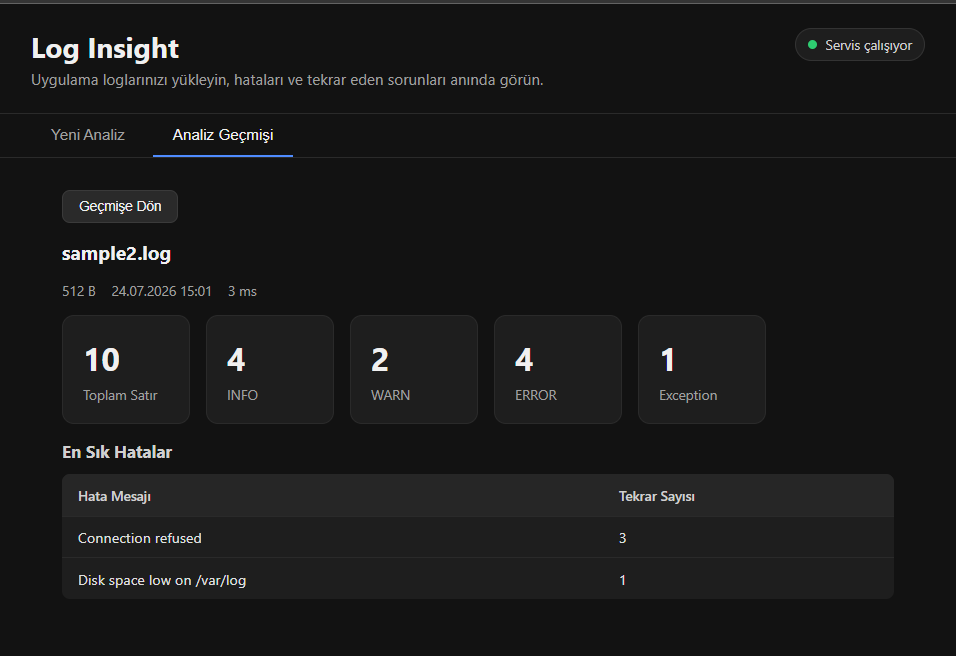
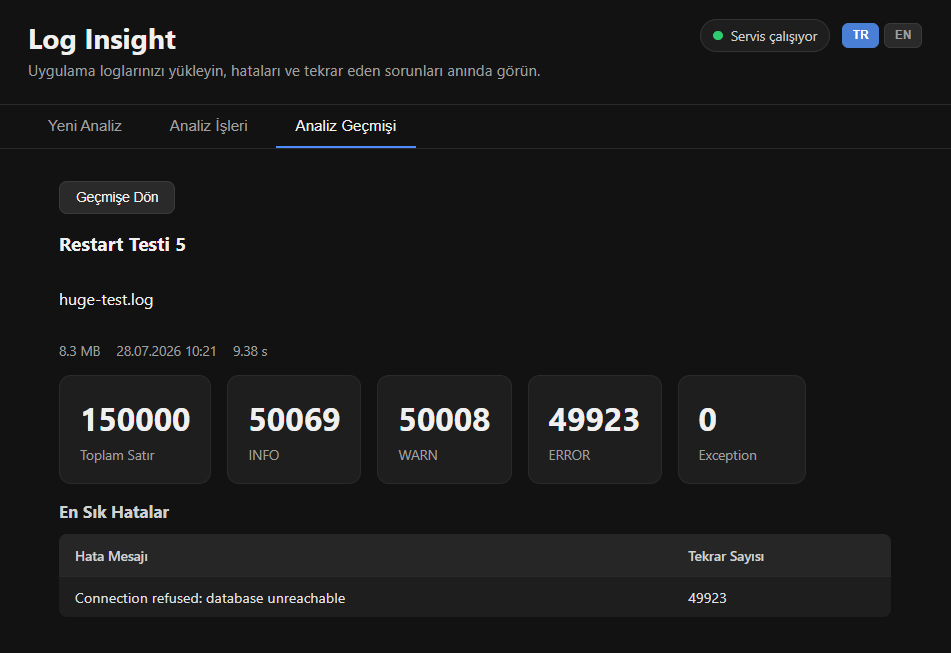
Update README to reflect analysis name search and expanded test coverage

diff --git a/README.md b/README.md
@@ -346,10 +346,11 @@ curl -X POST -F "file=@backend/sample.log" http://localhost:8080/api/v1/logs/ana
 | `size` | hayır (varsayılan `20`) | sayfa başına kayıt |
 | `sort` | hayır (varsayılan `analyzedAt,desc`) | `alan,yön` formatında sıralama |
 | `fileName` | hayır | dosya adına göre (büyük/küçük harf duyarsız, kısmi eşleşme) arama |
+| `analysisName` | hayır | analiz adına göre (büyük/küçük harf duyarsız, kısmi eşleşme) arama |
 | `minErrorCount` | hayır | bu sayı ve üzerinde hata içeren kayıtları filtreleme |
 
 ```bash
-curl "http://localhost:8080/api/v1/analyses?page=0&size=20&sort=analyzedAt,desc&fileName=app&minErrorCount=5"
+curl "http://localhost:8080/api/v1/analyses?page=0&size=20&sort=analyzedAt,desc&fileName=app&analysisName=odeme&minErrorCount=5"
 ```
 
 Cevap `content`, `page`, `size`, `totalElements`, `totalPages`, `first`, `last` alanlarını içerir.
@@ -386,7 +387,7 @@ curl -X POST -F "file=@backend/sample.log" -F "analysisName=Test Analizi" http:/
 
 ## Frontend Geçmiş ve Detay Ekranları
 
-- **Analiz Geçmişi** — kayıtlı tüm analizlerin listesi. Her satırda dosya adı, analiz tarihi, dosya boyutu, toplam satır, ERROR sayısı, exception sayısı, işlem süresi ile birlikte bir **Detay** ve bir **Sil** butonu bulunur. Sayfa altında önceki/sonraki sayfa butonları ve mevcut/toplam sayfa bilgisi gösterilir. Üstteki arama çubuğuyla dosya adına göre arama ve minimum ERROR sayısına göre filtreleme yapılabilir.
+- **Analiz Geçmişi** — kayıtlı tüm analizlerin listesi. Her satırda analiz adı (V4), dosya adı, analiz tarihi, dosya boyutu, toplam satır, ERROR sayısı, exception sayısı, işlem süresi ile birlikte bir **Detay** ve bir **Sil** butonu bulunur. Sayfa altında önceki/sonraki sayfa butonları ve mevcut/toplam sayfa bilgisi gösterilir. Üstteki arama çubuğuyla analiz adına göre (V4) ve dosya adına göre arama, minimum ERROR sayısına göre filtreleme yapılabilir.
 - **Detay butonuna** basıldığında, o analizin tüm bilgileri (dosya metadata'sı, tüm sayaçlar, en sık hata mesajları tablosu) ayrı bir ekranda gösterilir.
 - **Sil butonuna** basıldığında önce bir onay penceresi açılır; onaylanırsa kayıt silinir, başarı mesajı gösterilir ve liste otomatik olarak yenilenir.
 - Liste; yükleniyor (loading), boş (empty state), hata (backend erişilemiyor veya beklenmeyen sunucu hatası) durumlarını ayrı ayrı, kullanıcı dostu şekilde ele alır.
@@ -398,7 +399,7 @@ Uygulama artık üç ana görünüme sahip: **Yeni Analiz**, **Analiz İşleri**
 - **Yeni Analiz** artık senkron değil — kullanıcı bir analiz adı girip dosya seçtiğinde, bir job oluşturulur ve kullanıcı otomatik olarak **Analiz İşleri** sekmesindeki job takip ekranına yönlendirilir.
 - **Analiz İşleri listesi** — analiz adı, dosya adı, durum, progress, oluşturulma/başlama/tamamlanma zamanı, retry sayısı ve **Detay/İptal/Retry/Sonuç** butonlarını gösterir; butonlar job durumuna göre aktif/pasif olur (örn. yalnızca `FAILED` job'da Retry aktif, "Sonuç" yalnızca `SUCCEEDED` **ve** bağlı analiz sonucu hâlâ mevcutsa aktif). Analiz adına, dosya adına ve duruma göre filtrelenebilir.
 - **Job Detay ekranı** — tüm job bilgileri, `PENDING`/`RUNNING` durumunda bir progress bar, geçen süre, hata bilgisi (varsa, kullanıcı dostu çevrilmiş biçimde) ve `SUCCEEDED` job için "Sonucu Görüntüle" butonu (Analiz Geçmişi'ndeki detay ekranına yönlendirir; analiz sonucu ayrıca silinmişse bu buton görünmez).
-- **Polling** — job takip ekranı, job'ın durumunu her **2 saniyede bir** sorgular; job terminal bir duruma (`SUCCEEDED`/`FAILED`/`CANCELLED`) ulaşınca polling otomatik durur; ekran kapatılınca (component unmount) da temizlenir; backend'e ulaşılamazsa kullanıcıya bilgi verilir.
+- **Polling** — job takip ekranı, job'ın durumunu her **2 saniyede bir** sorgular; job terminal bir duruma (`SUCCEEDED`/`FAILED`/`CANCELLED`) ulaşınca polling otomatik durur, retry ile job yeniden aktif hale gelirse otomatik yeniden başlar; ekran kapatılınca (component unmount) da temizlenir; backend'e ulaşılamazsa ya da job artık bulunamıyorsa (silinmişse) kullanıcıya ayrı, anlaşılır mesajlar gösterilir. Geçersiz bir durumda iptal/retry denenirse (örn. zaten tamamlanmış bir job, ya da retry limiti dolmuş bir job), backend'in döndüğü hata kodu çevrilip ekranda gösterilir.
 
 ## Backend Testleri
 
@@ -418,6 +419,10 @@ V1/V2/V3'ten gelen tüm testler (dosya validasyonu, log sayaçları, hata grupla
 - Job listesinin pagination ve durum filtresiyle dönmesi
 - Uygulama başlangıcında `RUNNING` job'ların `FAILED`'a alınması ve sahipsiz geçici dosyaların temizlenmesi
 - `JobStateMachine`'in tüm durum geçiş kurallarının izole (veritabanına dokunmadan) test edilmesi
+- Gerçek bir analiz hatasının (I/O hatası) `RUNNING → FAILED` geçişini tetiklediğinin ve analiz kaydı oluşturmadığının doğrulanması
+- Başarılı bir job'ın geçici dosyasının gerçekten silindiğinin doğrulanması
+- Retry limiti kesin olarak dolduğunda geçici dosyanın da silindiğinin doğrulanması
+- Liquibase migration testinin `analysis_job` tablosunu ve `log_analysis.analysis_name` sütununu da kapsaması
 
 ### Testcontainers Testlerinin Çalıştırılması
 
@@ -438,7 +443,7 @@ V1/V2/V3'ten gelen tüm testler korunmuştur. V4 ile eklenen senaryolar:
 - Yalnızca `FAILED` durumda "Tekrar Dene" butonunun gösterilmesi, `SUCCEEDED` job'dan "Sonucu Görüntüle" ile analiz detayına geçiş
 - Polling'in 2 saniyede bir tekrarlanması, terminal durumda durması, component unmount olunca temizlenmesi (`vi.useFakeTimers` ile)
 
-Testlerde gerçek backend yerine API mock'ları kullanılır. Not: Türkçe/İngilizce dil geçişi ve kalıcılığı yalnızca tarayıcıda elle doğrulanmıştır, ayrı otomatik testler yazılmamıştır (bkz. Bilinen Eksikler).
+Testlerde gerçek backend yerine API mock'ları kullanılır. Ayrıca: Türkçe/İngilizce dil seçimi ve kalıcılığı (`LanguageSwitcher.test.tsx`, `i18n/index.test.ts`), job durumlarının iki dilde gösterimi (`JobStatusBadge.test.tsx`) ve API hata kodlarının iki dilde çevrilmesi/fallback davranışı (`utils/apiErrorMessage.test.ts`) ayrı, otomatik testlerle doğrulanmıştır.
 
 ## Nginx Proxy Yapısının Kısa Açıklaması
 
@@ -504,7 +509,6 @@ frontend/src/i18n/
 - `mostFrequentErrors` listesinde üst sınır (örn. ilk 10) uygulanmıyor; çok sayıda benzersiz hata mesajı olan büyük dosyalarda liste uzun olabilir.
 - Frontend, backend health check'i sadece sayfa ilk yüklendiğinde kontrol ediyor; periyodik otomatik yenileme yapmıyor.
 - Analiz geçmişi ve analiz işleri listelerinde toplu (birden fazla kaydı aynı anda) silme/iptal/retry desteği yok; kayıtlar tek tek işlenebiliyor.
-- Türkçe/İngilizce dil geçişi ve kalıcılığı için ayrı otomatik testler yazılmadı, yalnızca tarayıcıda elle doğrulandı.
 - `useJobPolling` hook'u, polling zaten bir hata mesajı gösteriyorken kullanıcı dil değiştirirse, ekrandaki mesajı hemen değil bir sonraki başarısız denemede yeni dile çevirir (bilinçli, küçük bir basitleştirme — bkz. kod içi yorum).
 - Job geçmişinde otomatik arşivleme/eskimiş kayıtları temizleme mekanizması yok; `analysis_job` tablosu süresiz büyür.
 
